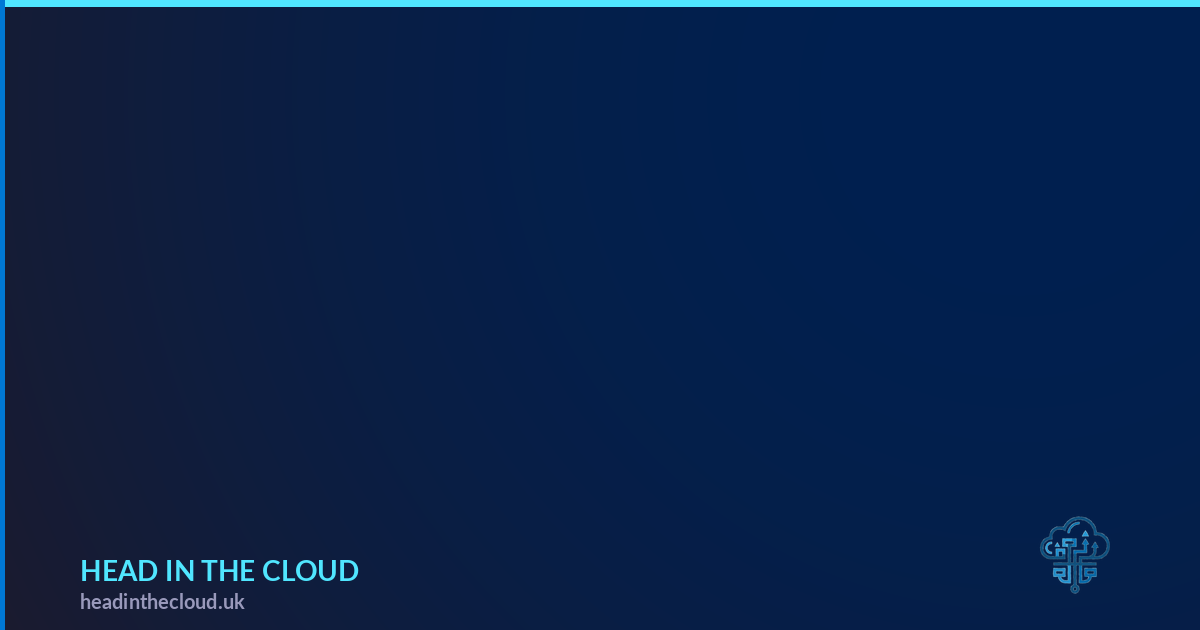
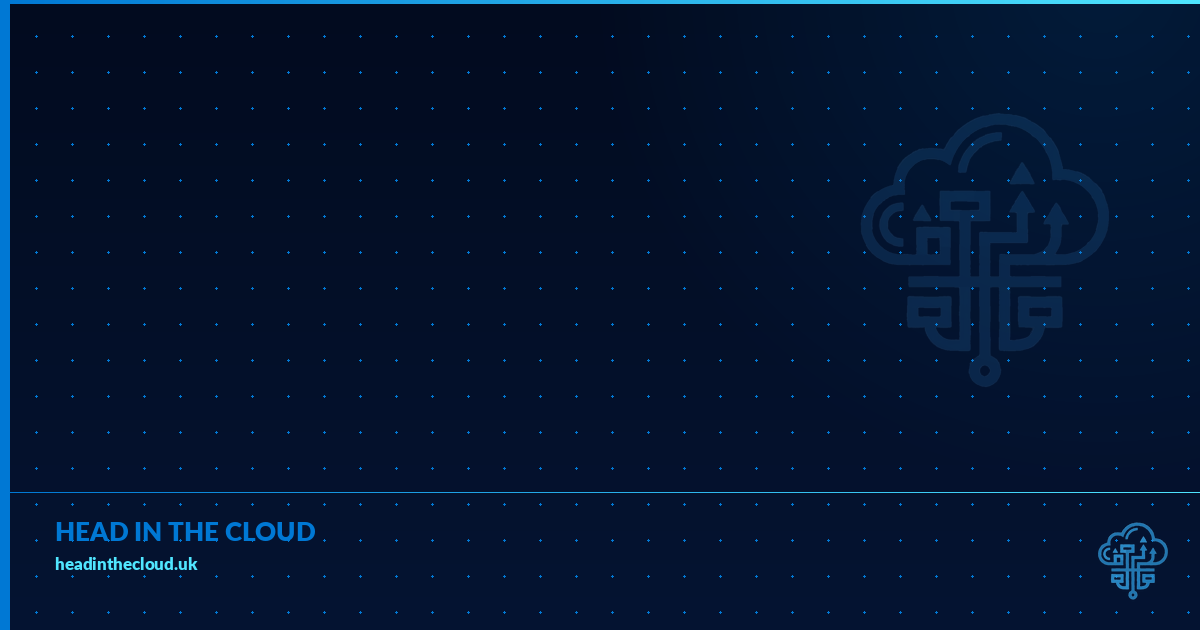
push change it post card

diff --git a/layouts/partials/og-image.html b/layouts/partials/og-image.html
@@ -1,8 +1,14 @@
 {{- /* og-image.html
 
        Generates a 1200x630 OG card per page by overlaying the page's
-       title onto assets/images/og-template.png at build time using
+       title onto a category-specific template at build time using
        Hugo's images.Text filter.
+
+       Template selection is driven by the post's cover.image frontmatter:
+         /covers/networking.svg → og-template-networking.png
+         /covers/security.svg  → og-template-security.png
+         /covers/storage.svg   → og-template-storage.png
+         anything else         → og-template-general.png
 
        Returns the resource so the caller can use .Permalink for meta
        tags (or .RelPermalink if you ever need a relative URL).
@@ -13,7 +19,12 @@
        to 60px so they still fit.
 */ -}}
 
-{{- $tpl := resources.Get "images/og-template.png" -}}
+{{- $coverImg  := .Params.cover.image | default "" -}}
+{{- $tplName   := "images/og-template-general.png" -}}
+{{- if strings.Contains $coverImg "networking" -}}{{- $tplName = "images/og-template-networking.png" -}}{{- end -}}
+{{- if strings.Contains $coverImg "security"   -}}{{- $tplName = "images/og-template-security.png"   -}}{{- end -}}
+{{- if strings.Contains $coverImg "storage"    -}}{{- $tplName = "images/og-template-storage.png"    -}}{{- end -}}
+{{- $tpl := resources.Get $tplName -}}
 {{- $font := resources.Get "fonts/Lato-Black.ttf" -}}
 {{- $title := .Title | default .Site.Title -}}
 
